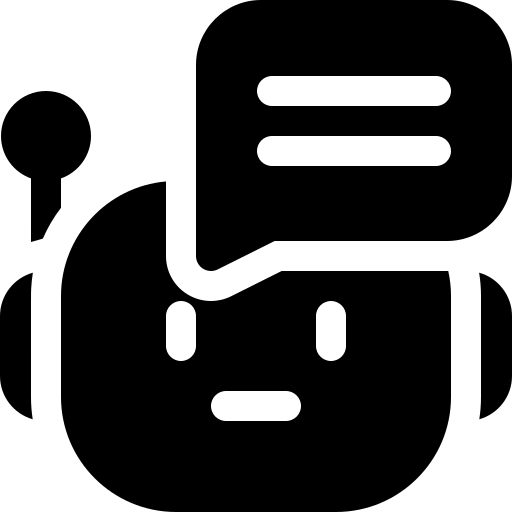
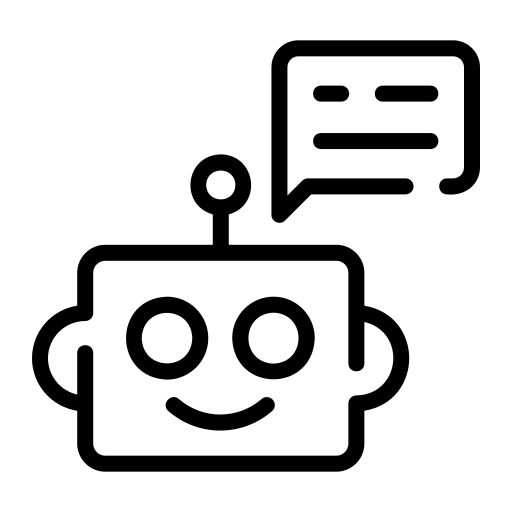
Completed decorating the objects, need to put them into a modal next.

diff --git a/frontend/src/components/Gemini/gemini.css b/frontend/src/components/Gemini/gemini.css
@@ -1,0 +1,113 @@
+
+.dabot{
+    border:12px solid black;
+    cursor: pointer;
+    margin:1%;
+}
+
+.formContainer{
+    display:flex;
+    justify-content : space-around;
+}
+
+
+/* Fade in & out animation */
+@keyframes fadeIn {
+    0% {
+      opacity: 0;
+    }
+    100% {
+      opacity: 1;
+    }
+  }
+
+  /* Container for the Button and the Image inside */
+.botBtn {
+    position: fixed;
+    right: 0;
+    bottom: 0;
+    padding: 20px;
+}
+
+/* Search text field style */
+.botInput {
+    border: 2px solid transparent;
+    width: 15em;
+    height: 2.5em;
+    padding-left: 0.8em;
+    outline: none;
+    overflow: hidden;
+    background-color: #F3F3F3;
+    border-radius: 10px;
+    transition: all 0.5s;
+}
+
+/* Hover and focus effects for the text field */
+.botInput:hover, .botInput:focus {
+    border: 2px solid #4a9dec;
+    box-shadow: 0px 0px 0px 7px rgb(74, 157, 236, 20%);
+    background-color: white;
+}
+
+/* Styles for the search button */
+.searchButton {
+    border: 2px solid transparent;
+    padding: 10px;
+    outline: none;
+    background-color: white;
+    border-radius: 10px;
+    transition: all 0.5s;
+}
+
+/* Hover effects for the search button */
+.searchButton:hover {
+    transition: all 0.2s;
+    transform: scale(1.1);
+    cursor: pointer;
+    border: 2px solid #4a9dec;
+    box-shadow: 0px 0px 0px 7px rgb(74, 157, 236, 20%);
+    background-color: white;
+}
+
+/* Button to open the Modal */
+.modalBtn {
+    height: 55px;
+    width: 55px;
+    border: none;
+    border-radius: 10px;
+    background-color: white;
+    transition: 0.2s;
+}
+.modalBtn:hover {
+    transition: 0.2s;
+    transform: scale(1.1);
+    cursor: pointer;
+    border: 2px solid #4a9dec;
+    box-shadow: 0px 0px 0px 7px rgb(74, 157, 236, 20%);
+    background-color: white;
+}
+
+/* Modal Container */
+.modal {
+    animation: fadeIn 0.2s;
+    box-shadow: rgba(17, 17, 26, 0.1) 0px 4px 16px, rgba(17, 17, 26, 0.1) 0px 8px 24px, rgba(17, 17, 26, 0.1) 0px 16px 56px;
+    margin: 15% auto;
+    width: 40%;
+    padding: 20px;
+    border-radius: 12px;
+}
+
+.closeModal {
+    text-decoration: none;
+    border: none;
+    background-color: white;
+    color: #666666;
+    font-size: 16px;
+    transition: 0.5s;
+}
+
+.closeModal:hover {
+    color: #068C1F;
+    transition: 0.5s;
+    cursor: pointer;
+}

diff --git a/frontend/src/components/Gemini/Gemini.jsx b/frontend/src/components/Gemini/Gemini.jsx
@@ -2,10 +2,7 @@ import { useContext, useState } from "react";
 import Axios from "axios";
 import { UserContext } from "../../App";
 import BarLoader from "react-spinners/BarLoader";
-import { AiFillRobot } from "react-icons/ai";
-import TextField from "@mui/material/TextField";
-import Button from "@mui/material/Button"; 
-import "./Bot.css"; 
+import "./gemini.css"; 
 
 function Gemini() {
   const { logged } = useContext(UserContext);
@@ -36,20 +33,24 @@ function Gemini() {
   }
 
   return logged ? (
-    <div className="bot-container">
-      <AiFillRobot className="dabot" onClick={() => setMenu(prev => !prev)}>
-        {menu ? "Close Bot" : "Open Bot!"}
-      </AiFillRobot>
+    <div className="botContainer">
+      <div className="botBtn">
+        <button className="modalBtn" onClick={() => setMenu(prev => !prev)}>
+          <img style={{width:"40px", height:"40px"}} src='./images/chatbot.png' alt='chatbot-icon' />
+        </button>
+      </div>
+
       {menu && (
-        <form onSubmit={GatherData} className="askMe">
-          <TextField
-            className="bot-input"
+        <form onSubmit={GatherData} className="formContainer">
+          <input
+            className="botInput"
             onChange={(e) => setSearch(e.target.value)}
-            placeholder="Say something"
+            placeholder="Enter your prompt here..."
           />
-          <Button type="submit" disabled={loading} className="bot-Button">
-            {loading ? <BarLoader /> : <p>Search</p>}
-          </Button>
+          <button type="submit" disabled={loading} className="searchButton">
+            <img style={{width:"40px", height:"40px"}} src='./images/search.png' alt='chatbot-icon' />
+            {loading ? <BarLoader color="#4a9dec" /> : ""}
+          </button>
           {data && data.length ? (
             data.map((x, index) => (
               <div key={x.id || index} className="bot-response">
@@ -64,7 +65,7 @@ function Gemini() {
             </h2>
           )}
         </form>
-      )}
+        )}
     </div>
   ) : (
     ""

diff --git a/frontend/src/App.jsx b/frontend/src/App.jsx
@@ -4,14 +4,13 @@ import Home from "./pages/HomePage/home";
 import Login from "./pages/AccountPage/login";
 import Register from "./pages/AccountPage/register";
 import ErrorPage from "./components/Error404/ErrorPage";
-import Gemini from "./components/Gemini/Gemini";
 import ModalTest from "./pages/ModalTest";
 
 export const UserContext = createContext();
 
 function App() {
   const [loading, setLoading] = useState(false);
-  const [logged, setLogged] = useState(false);
+  const [logged, setLogged] = useState(true);
   const [status, setStatus] = useState("");
   const [user,setUser] = useState("")
 
@@ -30,7 +29,6 @@ function App() {
     <>
       <UserContext.Provider value={userContextValue}>
         <BrowserRouter>
-          <Gemini />
           <Routes>
             <Route path="/" element={<Home />} />
             <Route path="login" element={<Login />} />

diff --git a/frontend/src/pages/ModalTest.jsx b/frontend/src/pages/ModalTest.jsx
@@ -1,12 +1,12 @@
 /* eslint-disable no-unused-vars */
 import NavBar from "../components/NavigationBar/navBar.jsx";
-import GeminiModal from "../components/GeminiModal/GeminiModal.jsx";
+import Gemini from "../components/Gemini/Gemini.jsx";
 
 function ModalTest() {
     return(
         <>
             <NavBar />
-            <GeminiModal />
+            <Gemini />
         </>
     );
 }
